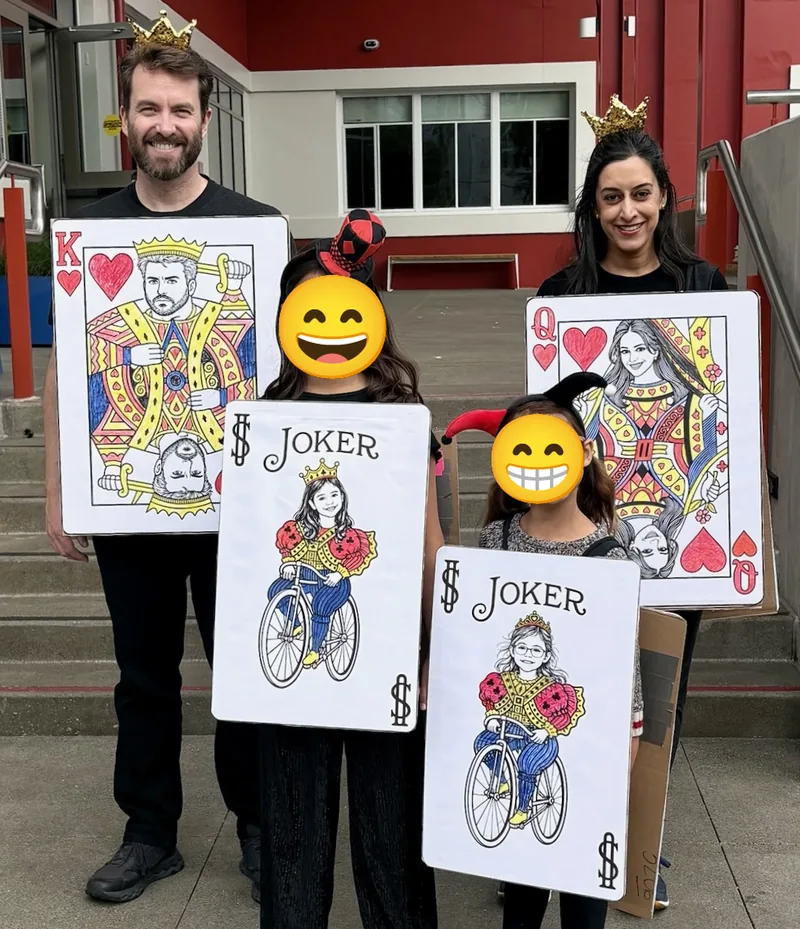
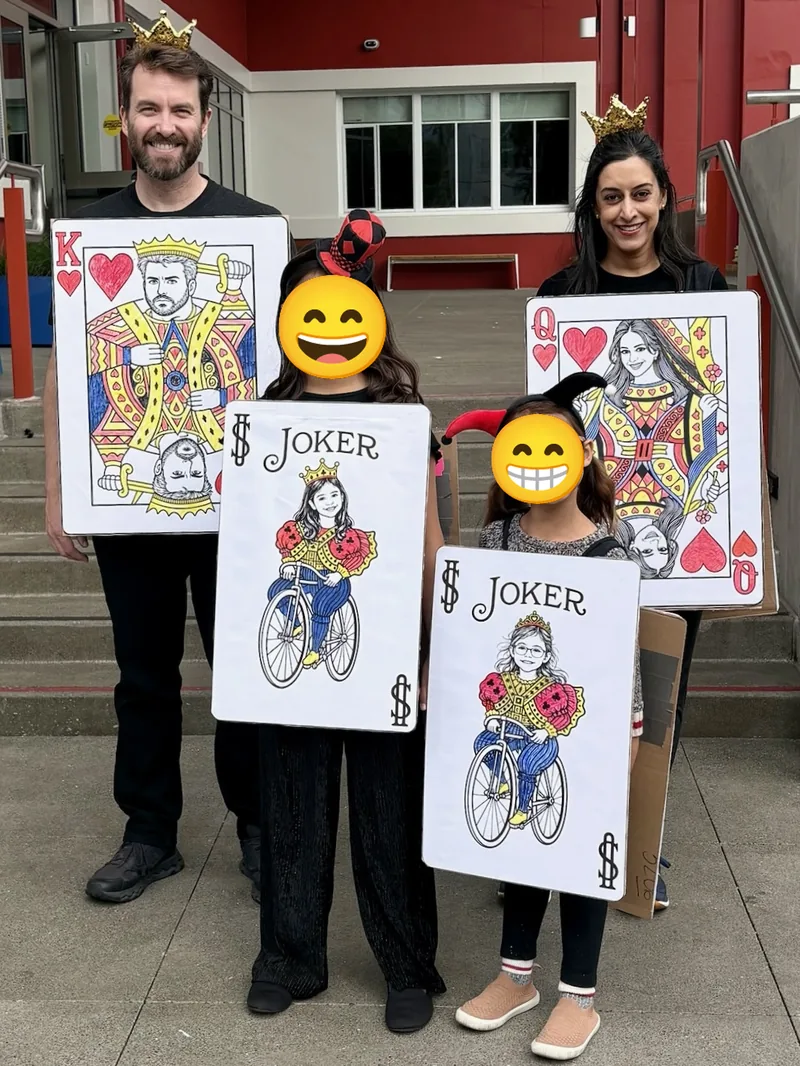
Show the whole family photo; add two greetings
The family picture was trimmed just below the lower card, which cut off
feet and the bottom of the frame. It is now the full photo, and a
sheet's picture may take up to 72% of the screen height so it fits
uncropped on most phones.

The greeting on the name now says "Hello, night owl!" from midnight to
5am and "Hello, early bird!" from 5 to 7am, by the visitor's clock. The
rest of the day keeps Good morning, afternoon and evening.

Claude-Session: https://claude.ai/code/session_01CqFpLyZA9aAngZ8CtBVdN7

diff --git a/cards.js b/cards.js
@@ -45,13 +45,17 @@ window.DB_CARDS = {
         quiet: true,
         caption: function () {
             var hour = new Date().getHours();
-            var part =
-                hour >= 5 && hour < 12
-                    ? "morning"
-                    : hour >= 12 && hour < 18
-                      ? "afternoon"
-                      : "evening";
-            return "Good " + part + "! \uD83D\uDC4B";
+            var words =
+                hour < 5
+                    ? "Hello, night owl!"
+                    : hour < 7
+                      ? "Hello, early bird!"
+                      : hour < 12
+                        ? "Good morning!"
+                        : hour < 18
+                          ? "Good afternoon!"
+                          : "Good evening!";
+            return words + " \uD83D\uDC4B"; // waving hand
         },
         image: "assets/cards/00-david.webp",
         width: 800,
@@ -193,8 +197,8 @@ window.DB_CARDS = {
     family: {
         image: "assets/cards/09-family-cards.webp",
         width: 800,
-        height: 929,
-        tone: "#1a1a19",
+        height: 1066,
+        tone: "#1b1a18",
         focus: "50% 8%",
         alt: "My family dressed as playing cards: a king, a queen and two jokers. The children's faces are covered with emoji.",
     },

diff --git a/card-preview.js b/card-preview.js
@@ -466,7 +466,7 @@
      */
 
     var SHEET_MS = 450; // matches the sheet transitions in styles.css
-    var SHEET_MAX = 0.6; // tallest picture, as a share of the screen height
+    var SHEET_MAX = 0.72; // tallest picture, as a share of the screen height
     var RECEDE_SCALE = 0.94; // how small the page gets behind the sheet
     var RECEDE_DROP = 12; // px the page drops, so its rounded top shows
     var RECEDE_RADIUS = 14; // px

diff --git a/website copy.md b/website copy.md
@@ -23,7 +23,7 @@ Each of these links shows a preview picture with a short caption and a badge on 
 
 | Link text | Badge | Caption |
 |---|---|---|
-| David Wilson (the name at the top; no underline) | none (picture only, not a link) | Good morning! / Good afternoon! / Good evening! with a waving hand, by the visitor's clock |
+| David Wilson (the name at the top; no underline) | none (picture only, not a link) | By the visitor's clock, each with a waving hand: Hello, night owl! (midnight to 5am) / Hello, early bird! (5 to 7am) / Good morning! / Good afternoon! / Good evening! |
 | hardware | Case study | I loved working with Fred Bould and his team to design our sensor |
 | software | none (picture only, not a link) | Simple at a glance. More detail as you dig. |
 | Disney | Testimonial (video) | Disney's testimonial. In front of the Falcon! |
